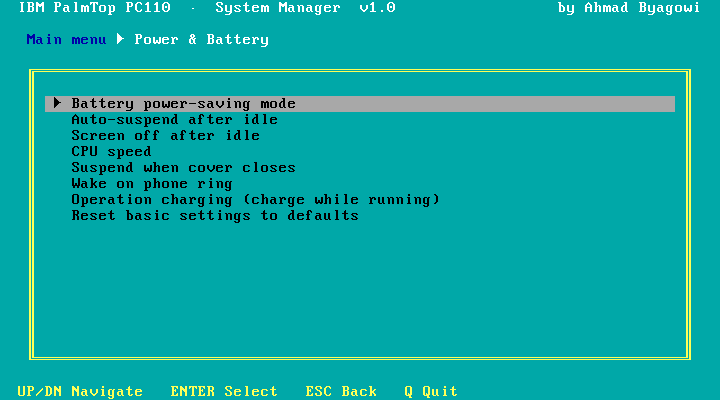
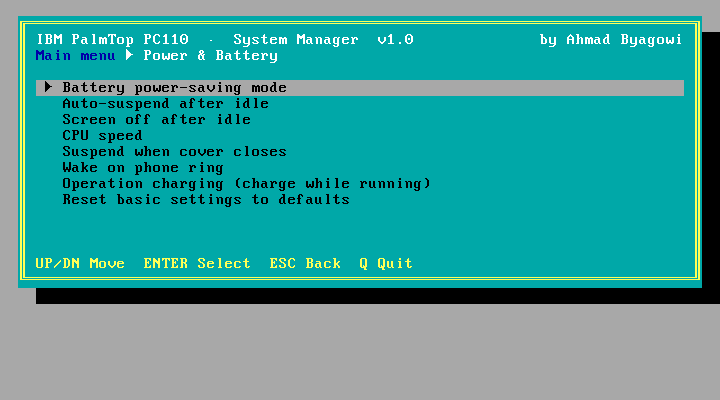
UI: float the window on a grey desktop with a drop shadow
The menu is now a framed cyan window (yellow double border) that floats
on a grey desktop backdrop with a black drop shadow to its right/bottom -
matching the classic 'System Information Tool' look. Title/breadcrumb/
footer moved inside the window. Info screens (diagnostics/tests) stay
full-cyan. Verified in QEMU (pixel-checked: grey desktop, cyan window,
black shadow). Screenshots refreshed.

diff --git a/README.md b/README.md
@@ -5,8 +5,8 @@
 
 ![PS2TUI main menu](screenshot.png)
 
-*The PS2TUI main menu — a classic cyan window with a yellow double border, categorised and
-keyboard-driven (captured in QEMU).*
+*The PS2TUI main menu — a classic cyan window with a yellow double border and drop shadow, floating
+on a grey desktop; categorised and keyboard-driven (captured in QEMU).*
 
 `PS2TUI` is a full-screen, keyboard-driven front-end for configuring the **IBM PalmTop PC110**
 (type 2431, 1995). It replaces the ~50 cryptic switches of IBM's `PS2.EXE` command-line tool with